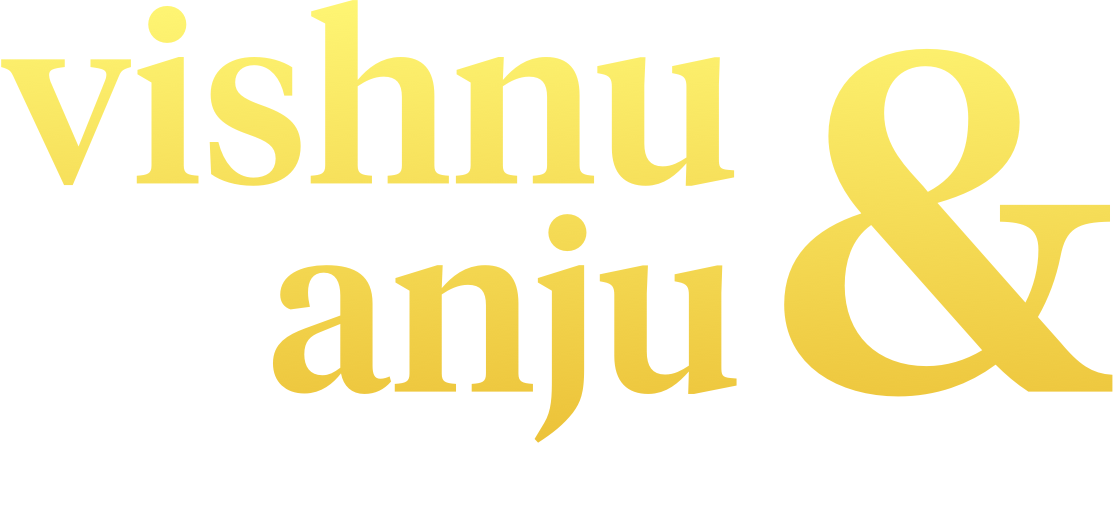
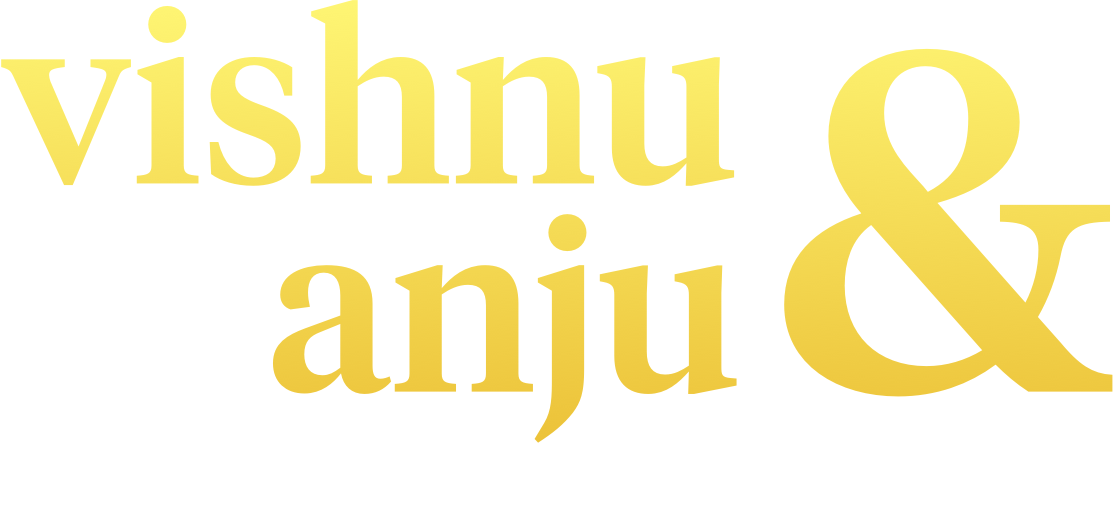
Moooooooooore changes

diff --git a/index.html b/index.html
@@ -25,7 +25,10 @@
 		<div class="container">
 			<div class="row intro-typography-container">
 				<div class="col-md-7">
-					<img src="img/intro-typography.png" class="intro-typography">
+          <div class="relative">
+            <img src="img/intro-typography.gif" class="intro-typography">
+            <img src="img/heart-white.png" class="intro-typography-heart animated heartBeat infinite">
+          </div>
           <button class="primary-cta intro-section-cta" onclick="toggleWishesModal(true)">Post a wish</button>
 				</div>
 			</div>
@@ -59,12 +62,12 @@
         <div class="col-md-2">
           <img src="img/where.png" class="section-header">
         </div>
-        <div class="col-md-2">
+        <div class="col-md-2 col-xs-6">
           <a class="person-bio-header-small section-tab-item active" onclick="switchTab('marriage')" id="marriage-tab">
             Marriage
           </a>
         </div>
-        <div class="col-md-2">
+        <div class="col-md-2 col-xs-6">
           <a class="person-bio-header-small section-tab-item" onclick="switchTab('reception')" id="reception-tab">
             Reception
           </a>
@@ -77,6 +80,7 @@
         <div class="col-md-5">
           <h3 class="person-bio-header">Saj International Auditorium</h3>  
           <p class="person-bio-desc">Located at a distance of 3 Kms from state highway (Thrissur – Kodungallur Road)and the property is easily accessible. Situated opposite to Holy Trinity Church, Karalam, Kerala. Phone: 086061 40000</p>
+          <p class="person-bio-desc font-bold">At 11:45 AM</p>
         </div>
       </div>
 
@@ -87,6 +91,7 @@
         <div class="col-md-5">
           <h3 class="person-bio-header">Cathedral Convention Centre</h3>  
           <p class="person-bio-desc">Situated opposite Saint Thomas Cathedral Church, Chandakkunnu, Irinjalakuda, Thrissur, Kerala</p>
+          <p class="person-bio-desc font-bold">From 6 PM to 8:30 PM</p>
         </div>
       </div>
 
@@ -113,7 +118,7 @@
   </section>
 
 
-  <section class="section non-intro-section">
+  <section class="section non-intro-section" id="wishes-section">
     <div class="container">
       <div class="row">
         <div class="col-md-12">
@@ -142,10 +147,22 @@
                   stroke-width="2"/>
         </svg>
       </a>
-      <h3 class="person-bio-header">Wish the couple</h3>
-      <input type="text" class="form-field" name="" placeholder="Your name" id="wish-name">
-      <textarea id="wish-message" class="form-field" rows="7" placeholder="Start typing here..."></textarea>
-      <button class="primary-cta cta-full-width" onclick="saveToFirebase()">Post the wish</button>
+      <h3 class="person-bio-header" id="wish-modal-normal-header">Wish the couple</h3>
+      <h3 class="person-bio-header" id="wish-modal-success-header" style="display: none;">Wish posted</h3>
+      <div id="wish-modal-normal">
+        <input type="text" class="form-field" name="" placeholder="Your name" id="wish-name">
+        <textarea id="wish-message" class="form-field" rows="7" placeholder="Start typing here..."></textarea>
+        <button class="primary-cta cta-full-width" id="post-wish-cta" onclick="saveToFirebase()">
+          <span id="post-text-normal">Post the wish</span>
+          <span id="post-text-loading" style="display: none;">Please wait..</span>
+        </button>
+      </div>
+      <div id="wish-modal-success" style="display: none;">
+        <p class="person-bio-desc">Your wish is successfully posted. Head to the wall of wishes to see more. Also, see you on the 7th of April!</p>
+        <button class="primary-cta cta-full-width" onclick="scrollToWishesSection()">
+          View all wishes
+        </button>
+      </div>
     </div>
   </section>
 
@@ -171,29 +188,46 @@
         'name': $("#wish-name").val(),
         'message': $("#wish-message").val(),
       };
-      console.log(messageObject);
+      $("#post-text-normal").fadeOut("fast", ()=>{
+        $("#post-text-loading").fadeIn("fast");
+      });
+      $("#post-wish-cta").addClass("disabled");
       firebase.database().ref('subscription-entries').push().set(messageObject)
       .then(function(snapshot) {
-        console.log("Yo! Success nigga!");
+        retrieveData(true);
         $("#wish-name").val("");
         $("#wish-message").val("");
-        retriveData();
+
+        $("#wish-modal-normal-header").fadeOut("fast", ()=>{
+          $("#wish-modal-success-header").fadeIn("fast");
+        });
+
+        $("#wish-modal-normal").fadeOut("fast", ()=>{
+          $("#wish-modal-success").fadeIn("fast");
+        });
       }, function(error) {
         console.log('error' + error);
       });
     }
 
-    function retriveData(){
+    function scrollToWishesSection(){
+      toggleWishesModal(false);
+      $([document.documentElement, document.body]).animate({
+        scrollTop: $("#wishes-section").offset().top - 50
+      }, 1000);
+    }
 
+    function retrieveData(clear){
       var wishes = [];
-
+      if(clear==true){
+        $("#wishes-container").html('');
+      }
       return firebase.database().ref('subscription-entries').once('value').then(function(snapshot) {
-
         snapshot.forEach(function(item) {
           var itemVal = item.val();
           wishes.push(itemVal);
         });
-
+        console.log(wishes);
         for (var i = 0; i < wishes.length; i++) {
           console.log(wishes[i]);
           $("#wishes-container").append("<div class='wishes-card animated fadeIn'><p class='person-bio-desc'>" + wishes[i].message + "</p><h6 class='person-bio-header-small'>" + wishes[i].name + "</h6></div>");
@@ -210,7 +244,7 @@
     });
 
     $(document).ready(function(){
-      retriveData();
+      retrieveData(false);
       switchTab('marriage');
     });
 

diff --git a/css/styles.css b/css/styles.css
@@ -8,6 +8,10 @@ a, button{
 	outline: none;
 	cursor: pointer;
 }
+.font-bold{
+	font-family: 'Open Sans';
+	font-weight: 700 !important;
+}
 .intro-section{
 	position: relative;
 	height: 720px;
@@ -211,6 +215,10 @@ a, button{
 .primary-cta:hover{
 	opacity: 0.75;
 }
+.disabled{
+	opacity: 0.4;
+	pointer-events: none;
+}
 .intro-section-cta{
     margin-left: 115px;
     margin-top: 40px;
@@ -223,4 +231,126 @@ a, button{
 	position: absolute;
 	right:25px;
 	top: 35px;
+}
+.modal-content .person-bio-desc {
+	margin-bottom: 35px;
+	color: #666;
+}
+.relative{
+	position: relative;
+}
+.intro-typography-heart{
+	position: absolute;
+	right: 305px;
+	bottom: 0px;
+	max-height: 28px;
+}
+
+
+@media(max-width: 800px){
+	.intro-typography {
+	    max-width: 260px;
+	    margin: 0 auto;
+	}
+	.intro-section {
+	    height: auto;
+	}
+	.intro-typography-container {
+	    margin-top: 340px;
+	    text-align: center;
+	}
+	.intro-section-bg{
+		width: 100%;
+	    height: 340px;
+	}
+	.intro-section-bg:before{
+		display: none;
+	}
+	.intro-typography-heart {
+	    right: auto;
+	    bottom: 0px;
+	    max-height: 16px;
+	    left: 206px;
+	}
+	.intro-section-cta {
+	    margin-left: 0px;
+	    margin-top: 27px;
+	}
+	.primary-cta {
+    	padding: 15px 35px;
+    	font-size: 15px;
+	}
+	.intro-section-bg:after {
+	    bottom: 26px;
+	    height: 60px;
+	}
+	.person-bio{
+		text-align: center;
+		padding: 0px;
+	}
+	.person-bio-dp{
+		position: static;
+	}
+	.person-bio-container:nth-child(1){
+		padding: 20px;
+		margin-bottom: 30px;
+	}
+	.person-bio-header{
+		font-size: 21px;
+	}
+	.person-bio-desc{
+		font-size: 16px;
+	}
+	.non-intro-section{
+		margin: 80px 0px;
+	}
+	.section-header {
+    	margin: 0 auto 25px auto;
+    	display: block;
+    	height: 28px;
+	}
+	.section-tab-item{
+		text-align: center;
+		margin-bottom: 20px;
+	}
+	.mapouter{
+		margin-bottom: 30px;
+	}
+	.owl-theme .owl-nav [class*=owl-] {
+	    height: 32px;
+	    width: 32px;
+	    font-size: 20px !important;
+	}
+	.owl-nav .owl-prev {
+	    margin-left: 20px !important;
+	}
+	.owl-nav .owl-next {
+	    margin-right: 20px !important;
+	}
+	.owl-theme .owl-nav {
+    	margin-top: 0px !important;
+	}
+	.masonry {
+    	column-gap: unset;
+    	column-count: unset;
+	}
+	.wishes-card {
+	    border-radius: 4px;
+	    padding: 20px;
+	    display: block;
+	    margin-bottom: 15px;
+	}
+	.modal-content {
+	    background: #fff;
+	    padding: 20px;
+	    width: 100%;
+	    margin-top: 0px;
+	    min-height: 100vh;
+	    border-radius: 0px;
+	}
+	.modal-close-btn {
+	    position: absolute;
+	    right: 15px;
+	    top: 28px;
+	}
 }
